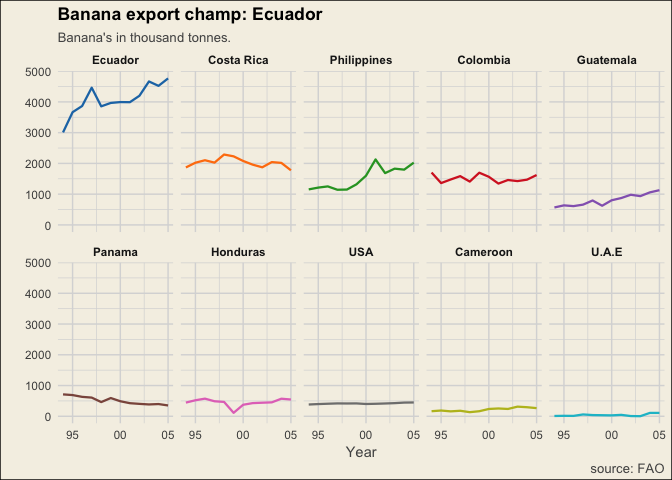
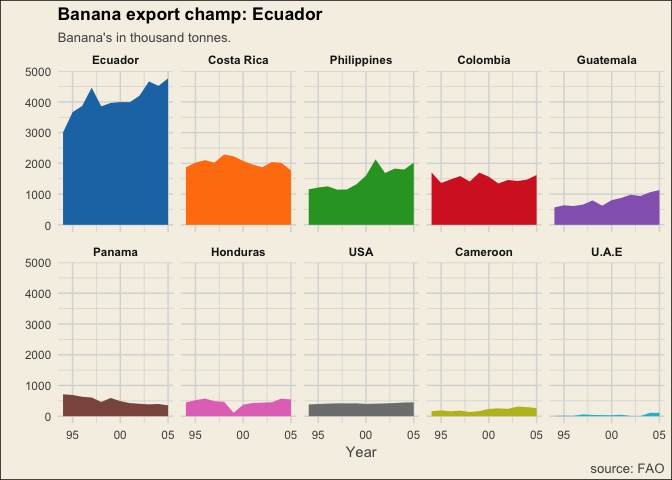
final edits before merging to master

Changed region(s): [[0.0938, 0.1562, 1.0, 0.4688], [0.0938, 0.8125, 1.0, 0.875]]

diff --git a/projects/Redesign-of-worst-chart-ever/redesign-of-worst-chart-ever.md b/projects/Redesign-of-worst-chart-ever/redesign-of-worst-chart-ever.md
@@ -6,7 +6,9 @@ Redesign of a truly Bananas chart
 
 On Twitter I stumbled upon this horrendous 3D bar chart. Looking at the data used it might have been made in 2005. Data visualisation as a skill was yet to be defined. Boy we have come a long way but this was even at the time truly bananas.
 
-Normally I describe in detail about what can be improved. However, this time I trust my audience to recognise the many pitfalls. Watch it, [PhillipDRiggs](https://twitter.com/PhilipDRiggs/status/949429633119748096) warns us in his tweet for "post-traumatic viz syndrome".
+Normally I describe in detail about what improvements can be made, this time I trust my audience to recognise the many pitfalls. Watch it though, [PhillipDRiggs](https://twitter.com/PhilipDRiggs/status/949429633119748096) warns you in his tweet for "post-traumatic viz syndrome".
+
+I do have [a write up on my Medium blog]() describing my redesign choices.
 
 Aquire
 ------
@@ -50,15 +52,15 @@ order <- df %>%
 df$Country <- factor(df$Country, levels = order)
 ```
 
-Visualisation
--------------
+Final Visualisation
+-------------------
 
 ``` r
 # Create small multiple line plots with `facet_wrap`.
 df %>%
-  ggplot(aes(x = Year, y = Tonnes_x1000, colour = Country)) +
-  geom_line(size = 0.8) +
-  scale_colour_tableau() +
+  ggplot(aes(x = Year, y = Tonnes_x1000, fill = Country)) +
+  geom_area(size = 0.8) +
+  scale_fill_tableau() +
   scale_x_date(date_labels = "%y") +
   facet_wrap( ~ Country, ncol = 5) +
   theme_minimal() +
@@ -79,7 +81,3 @@ df %>%
 ```
 
 ![](redesign-of-worst-chart-ever_files/figure-markdown_github/unnamed-chunk-3-1.png)
-
-``` r
-?theme
-```
